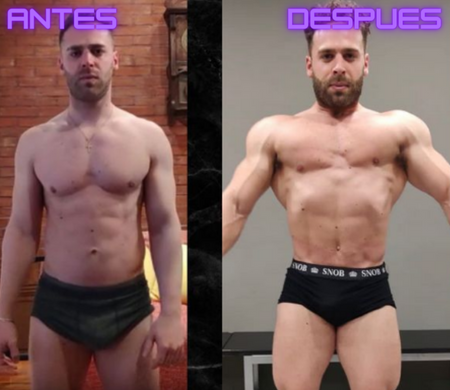
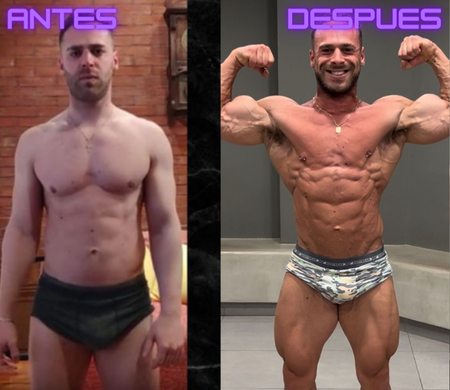
arreglos

diff --git a/index.html b/index.html
@@ -42,6 +42,7 @@
 
   <!-- ***** Header Area Start ***** -->
   <header id="inicio" class="header-area header-sticky">
+    <div class="rain">
     <div class="container">
       <div class="row">
         <div class="col-12">
@@ -269,56 +270,57 @@
               <div class="col-lg-12" style="font-family:montserrat !important;">
                 <div class="owl-collection owl-carousel">
                   <div class="item">
-                    <img src="assets/images/antes/1.png" alt="">
+                    <img src="assets/images/antes/8.png" alt="">
                     <div class="down-content2">
-                      <h4>nombre</h4>
-                      <span class="collection">tiempo de cambio:<br><strong>3meses</strong></span>
-                      <span class="category">objetivo:<br><strong>competidor/definir</strong></span>
+                      <h4>Matias Canillo </h4>
+                      <span class="collection">Tiempo de cambio:<br><strong>4 meses</strong></span>
+                      <span class="category">objetivo:<br><strong>Reducir % graso</strong></span>
 
                     </div>
                   </div>
-                  <div class="item">
-                    <img src="assets/images/antes/2.png" alt="">
-                    <div class="down-content2">
-                      <h4>nombre</h4>
-                      <span class="collection">tiempo de cambio:<br><strong>3meses</strong></span>
-                      <span class="category">objetivo:<br><strong>competidor/definir</strong></span>
-
-                    </div>
-                  </div>
+                 
                   <div class="item">
                     <img src="assets/images/antes/3.png" alt="">
                     <div class="down-content2">
-                      <h4>nombre</h4>
-                      <span class="collection">tiempo de cambio:<br><strong>3meses</strong></span>
-                      <span class="category">objetivo:<br><strong>competidor/definir</strong></span>
+                      <h4>Julieta</h4>
+                      <span class="collection">Tiempo de cambio:<br><strong>1 mes</strong></span>
+                      <span class="category" >objetivo:<br><strong>Aumentar % muscular</strong></span>
 
                     </div>
                   </div>
                   <div class="item">
                     <img src="assets/images/antes/4.png" alt="">
                     <div class="down-content2">
-                      <h4>nombre</h4>
-                      <span class="collection">tiempo de cambio:<br><strong>3meses</strong></span>
-                      <span class="category">objetivo:<br><strong>competidor/definir</strong></span>
+                      <h4>Gabriel Juarez</h4>
+                      <span class="collection">Tiempo de cambio:<br><strong>3 meses</strong></span>
+                      <span class="category">objetivo:<br><strong>Reducir % graso</strong></span>
 
                     </div>
                   </div>
                   <div class="item">
                     <img src="assets/images/antes/7.png" alt="">
                     <div class="down-content2">
-                      <h4>nombre</h4>
-                      <span class="collection">tiempo de cambio:<br><strong>3meses</strong></span>
-                      <span class="category">objetivo:<br><strong>competidor/definir</strong></span>
+                      <h4>Gaston Rochhetto</h4>
+                      <span class="collection">Tiempo de cambio:<br><strong>12 meses</strong></span>
+                      <span class="category">objetivo:<br><strong>Ganar % muscular Perder % graso</strong></span>
+
+                    </div>
+                  </div>
+                  <div class="item">
+                    <img src="assets/images/antes/9.png" alt="">
+                    <div class="down-content2">
+                      <h4>Franco Yague</h4>
+                      <span class="collection">Tiempo de cambio:<br><strong>2 meses</strong></span>
+                      <span class="category">objetivo:<br><strong>Mejorar estilo de vida</strong></span>
 
                     </div>
                   </div>
                   <div class="item">
                     <img src="assets/images/antes/6.png" alt="">
                     <div class="down-content2">
-                      <h4>nombre</h4>
-                      <span class="collection">tiempo de cambio:<br><strong>3meses</strong></span>
-                      <span class="category">objetivo:<br><strong>competidor/definir</strong></span>
+                      <h4>Matias Wolczok</h4>
+                      <span class="collection">Tiempo de cambio:<br><strong>3 meses</strong></span>
+                      <span class="category">objetivo:<br><strong>Reducir % graso</strong></span>
 
                     </div>
                   </div>
@@ -350,14 +352,14 @@
                   
                   <!-- Repite lo mismo para otros videos -->
                   <div class="item">
-                    <video controls poster="./assets/images/Diseño_sin_título__2_-removebg-preview.png">
+                    <video controls poster="./assets/images/antes/10.png">
                       <source src="assets/testimonios/video.MP4" type="video/mp4">
                       Your browser does not support the video tag.
                     </video>
                     <div class="down-content">
-                      <h4>nombre</h4>
-                      <span class="collection">tiempo de cambio:<br><strong>3meses</strong></span>
-                      <span class="category">objetivo:<br><strong>competidor/definir</strong></span>
+                      <h4>Fabian Padilla </h4>
+                      <span class="collection">Tiempo de cambio:<br><strong>5 meses</strong></span>
+                      <span class="category">objetivo:<br><strong>Ganar % muscular</strong></span>
                     </div>
                     
                   </div>
@@ -368,9 +370,10 @@
                       Your browser does not support the video tag.
                     </video>
                     <div class="down-content">
-                      <h4>nombre</h4>
-                      <span class="collection">tiempo de cambio:<br><strong>3meses</strong></span>
-                      <span class="category">objetivo:<br><strong>competidor/definir</strong></span>
+                      <h4>Gaston Rochhetto</h4>
+                      <span class="collection">Tiempo de cambio:<br><strong>12 meses</strong></span>
+                      <span class="category">objetivo:<br><strong>Ganar % muscular Perder % graso</strong></span>
+
                     </div>
                     
                   </div>
@@ -382,7 +385,7 @@
                     </video>
                     <div class="down-content">
                       <h4>nombre</h4>
-                      <span class="collection">tiempo de cambio:<br><strong>3meses</strong></span>
+                      <span class="collection">Tiempo de cambio:<br><strong>3meses</strong></span>
                       <span class="category">objetivo:<br><strong>competidor/definir</strong></span>
                     </div>
                     
@@ -394,9 +397,9 @@
                       Your browser does not support the video tag.
                     </video>
                     <div class="down-content">
-                      <h4>nombre</h4>
-                      <span class="collection">tiempo de cambio:<br><strong>3meses</strong></span>
-                      <span class="category">objetivo:<br><strong>competidor/definir</strong></span>
+                      <h4>Matias Wolczok</h4>
+                      <span class="collection">Tiempo de cambio:<br><strong>3 meses</strong></span>
+                      <span class="category">objetivo:<br><strong>Reducir % graso</strong></span>
                     </div>
                     
                   </div>
@@ -424,9 +427,9 @@
               te dijeron que no podías, no importa de donde venís sino a dónde vas. Tu pasado no define tu destino, tu
               mentalidad sí."</h2>
           </div>
-          <div class="main-button text-center"> <!-- Agregado text-center para centrar el botón -->
+         <!--  <div class="main-button">  Agregado text-center para centrar el botón
             <a href="#formulario">Entrenemos</a>
-          </div>
+          </div> -->
         </div>
       </div>
     </div>
@@ -440,23 +443,25 @@
     <section class="faq-section">
       <h2>Preguntas Frecuentes</h2>
       <div class="faq-item">
-          <h3 class="question">¿Cuál es el objetivo de esta página?</h3>
+          <h3 class="question">¿Cuál es el mejor plan de entrenamiento para perder peso y tonificar el cuerpo?</h3>
           <div class="answer">
-              <p>Lorem ipsum dolor sit amet, consectetur adipiscing elit. Fusce vestibulum odio eu quam dictum, sit amet molestie ex tincidunt.</p>
+              <p>El mejor plan de entrenamiento dependerá de tus objetivos específicos y tu nivel de condición física.</p>
           </div>
       </div>
       <div class="faq-item">
-          <h3 class="question">¿Cómo puedo contactar al soporte técnico?</h3>
+          <h3 class="question">¿Cuánto tiempo tomará ver resultados en mi transformación física?</h3>
           <div class="answer">
-              <p>Lorem ipsum dolor sit amet, consectetur adipiscing elit. Fusce vestibulum odio eu quam dictum, sit amet molestie ex tincidunt.</p>
+              <p>El tiempo necesario para ver resultados en tu transformación física puede variar según diversos factores, como tu punto de partida, la consistencia en el entrenamiento y la alimentación, así como tu genética. Por lo general, se recomienda ser paciente y mantener un enfoque constante y sostenible para obtener resultados a largo plazo.</p>
           </div>
       </div>
       <div class="faq-item">
-          <h3 class="question">¿Cuál es el horario de atención al cliente?</h3>
+          <h3 class="question">¿Una vez comprado el plan, cuándo recibiré mis instrucciones?</h3>
           <div class="answer">
-              <p>Lorem ipsum dolor sit amet, consectetur adipiscing elit. Fusce vestibulum odio eu quam dictum, sit amet molestie ex tincidunt.</p>
+              <p>Una vez que se acredite el pago, en el plazo de 24 horas recibirás un correo electrónico detallado con la información requerida para planificar el plan de acuerdo a tu compra.</p>
           </div>
       </div>
+  </section>
+  
   </section>
     <div class="container">
       <div class="row">
@@ -503,12 +508,14 @@
                   </ul>
                   <div class="precios">
                     <!-- Precio del servicio -->
-                    <span class="price">
-                      Precio: <strong>$9,99 USD</strong>
-                    </span>
+                   
                     <!-- Botón de comprar -->
-                    <div class="main-button">
-                      <a href="https://wa.me/+5492976212161?text=Hola%20quiero%20comprar%20el%20Plan%20Esencial.">Comprar</a>
+                    
+                    <div class="main-button" style="display: inline-block; margin-top: 20px;">
+                      <a href="https://wa.me/+5492976212161?text=Hola.%0AEstoy%20interesado%20en%20el%20Plan%20de%20Desafio%204%20Semanas.%0ANombre%20y%20apellido:%0AUbicación:%0AEmail:">Consultar</a>
+                      <div class="main-button mercado-pago">
+                        <a href="">Pagar</a>
+                      </div>
                     </div>
                   </div>
                 </div>
@@ -548,12 +555,10 @@
                   </ul>
                   <div class="precios">
                     <!-- Precio del servicio -->
-                    <span class="price">
-                      Precio: <strong>$24,99 USD</strong>
-                    </span>
+                    
                     <!-- Botón de comprar -->
-                    <div class="main-button">
-                      <a href="https://wa.me/+5492976212161?text=Hola%20quiero%20comprar%20el%20Plan%20Avanzado.">Comprar</a>
+                    <div class="main-button" style=" margin-top: 20px;">
+                      <a href="https://wa.me/+5492976212161?text=Hola.%0AEstoy%20interesado%20en%20el%20Plan%20LifeStyle.%0ANombre%20y%20apellido:%0AUbicación:%0AEmail:">Consultar</a>
                     </div>
                   </div>
                 </div>
@@ -595,12 +600,10 @@
                   </ul>
                   <div class="precios">
                     <!-- Precio del servicio -->
-                    <span class="price">
-                      Precio: <strong>$49,99 USD</strong>
-                    </span>
+                    
                     <!-- Botón de comprar -->
-                    <div class="main-button">
-                      <a href="https://wa.me/+5492976212161?text=Hola%20quiero%20comprar%20el%20Plan%20Profesional.">Comprar</a>
+                    <div class="main-button" style=" margin-top: 20px;">
+                      <a href="https://wa.me/+5492976212161?text=Hola.%0AEstoy%20interesado%20en%20el%20Plan%20Pro.%0ANombre%20y%20apellido:%0AUbicación:%0AEmail:">Consultar</a>
                     </div>
                   </div>
                 </div>
@@ -648,12 +651,10 @@
                   </ul>
                   <div class="precios">
                     <!-- Precio del servicio -->
-                    <span class="price">
-                      Precio: <strong>$149,99 USD</strong>
-                    </span>
+                   
                     <!-- Botón de comprar -->
-                    <div class="main-button">
-                      <a href="https://wa.me/+5492976212161?text=Hola%20quiero%20comprar%20el%20Plan%20Elite.">Comprar</a>
+                    <div class="main-button" style=" margin-top: 20px; ">
+                      <a href="https://wa.me/+5492976212161?text=Hola.%0AEstoy%20interesado%20en%20el%20Plan%20Pro%20VIP.%0ANombre%20y%20apellido:%0AUbicación:%0AEmail:">Consultar</a>
                     </div>
                   </div>
                 </div>

diff --git a/assets/css/templatemo-liberty-market.css b/assets/css/templatemo-liberty-market.css
@@ -290,6 +290,9 @@ body {
   box-shadow: 0 4px 6px rgba(0, 0, 0, 0.5); 
 }
 
+.main-button.text-center a {
+  text-align: center !important; /* Priorizar el centrado */
+}
 @media (max-width:786px){
   .main-button a {
     font-size: 8px;
@@ -1132,7 +1135,7 @@ Categories & Collections Style
 }
 
 .collections .item span strong {
-  font-size: 20px;
+  font-size: 14px;
 }
 
 .collections .item span.category {
@@ -1349,7 +1352,7 @@ Preguntas frecuentes
 /* styles.css */
 
 .faq-section {
-  max-width: 800px;
+  max-width: 850px;
   margin: 40px auto 100px auto;
   padding: 20px;
   background-image: url('../images/Gradient-Purple-Wallpaper-1080p.jpg'); /* Agregar la imagen de fondo */
@@ -1585,7 +1588,11 @@ Currently Market Style
 
 }
 
+.main-button {
 
+  display: inline-block;
+  margin-right: 10px; /* Espacio entre los botones */
+}
 .precio {
   display: flex;
   justify-content: space-between;
@@ -1608,6 +1615,27 @@ Currently Market Style
 
 #planes .item {
   flex: 1; /* Hace que cada item dentro de la columna ocupe todo el espacio disponible */
+}
+
+
+
+
+.main-button.mercado-pago a {
+  display: inline-block;
+  margin-left: 5px;
+  padding: 10px 20px;
+  background-color: #00AEEF; /* Celeste de Mercado Pago */
+  border: 1px solid #ffffff;
+  color: #FFFFFF; /* Blanco */
+  border-radius: 5px;
+  
+  text-decoration: none;
+  font-weight: bold;
+  transition: background-color 0.3s ease;
+}
+
+.main-button.mercado-pago a:hover {
+  background-color: #0078BF; /* Cambio de color al pasar el ratón */
 }
 
 @media (max-width:786px) {
